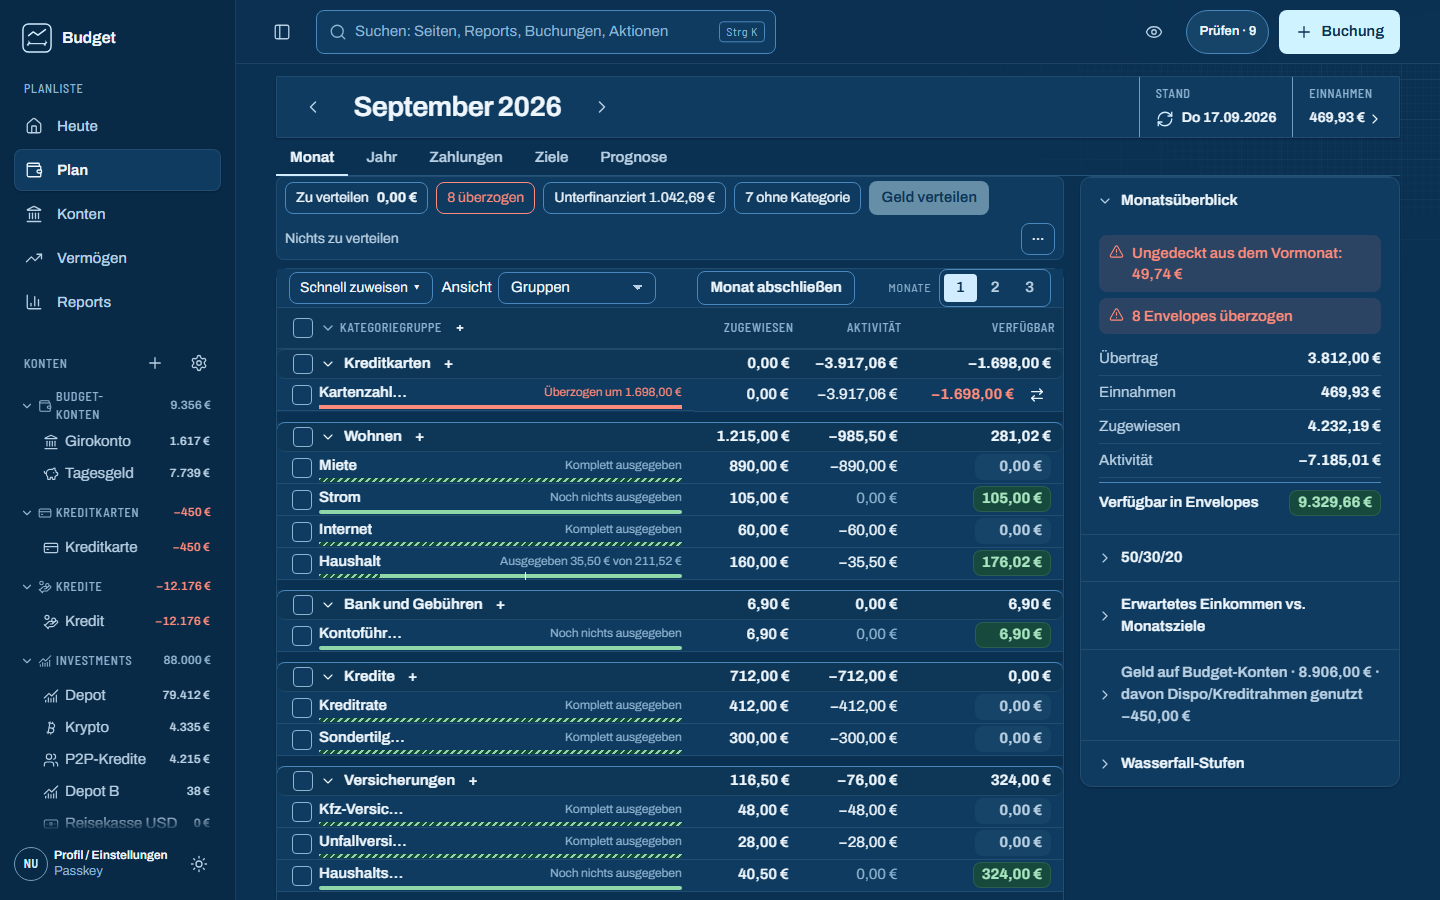
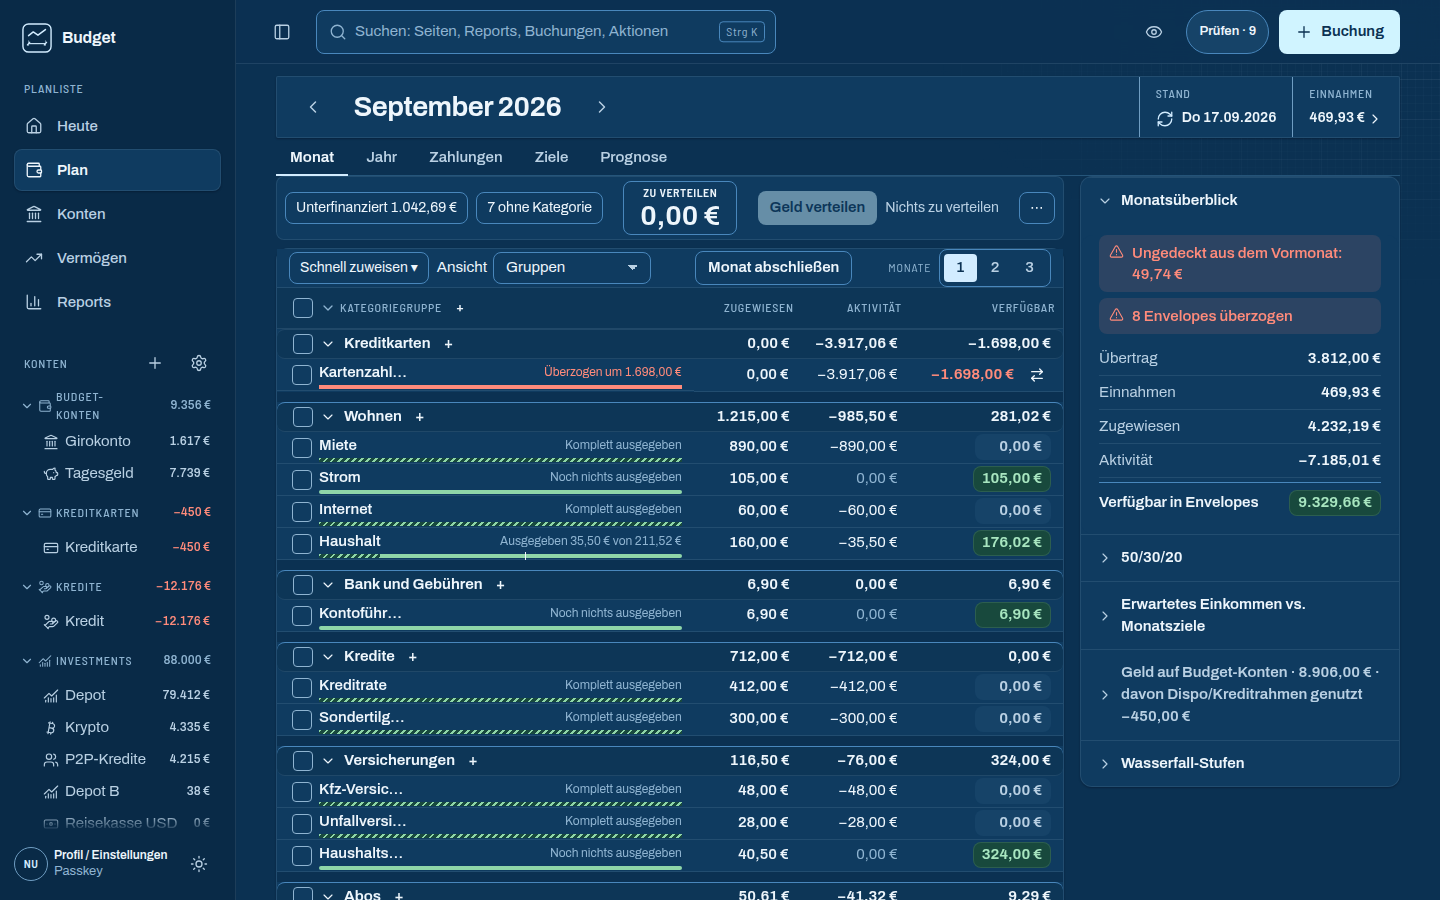
feat(plan): Zu verteilen as lead figure of the Plan head, no Überzogen chip (#587)
Owner decision 18.10.2026: Zu verteilen is the central, large figure of the Plan head
(display token), the red "N überzogen" chip leaves the head and the cover actions move
into the Zu verteilen disclosure (shown while anything is overspent or the figure is
negative). Desktop keeps one row, the phone head stays at most 56 px.

Existing e2e expectations that pinned the chip or the 14 px size are replaced by checks
of the new behaviour under tests-change-approved (per-file table in the PR).

Refs #587

Claude-Session: https://claude.ai/code/session_011YML2aoZgH3puKzNhDVY4Q

diff --git a/e2e/issue-587-plan-monat-kopf.spec.ts b/e2e/issue-587-plan-monat-kopf.spec.ts
@@ -102,11 +102,54 @@ test('rows carry no position numbers and the first category row is in the first 
   expect(await bottom()).toBeLessThan(viewportHeight);
 });
 
+test('no Überzogen chip in the head: rows keep their marking, cover actions sit in the Zu verteilen disclosure', async ({
+  page,
+}) => {
+  await page.goto('/plan/monat?monat=2026-09');
+  const head = page.locator('.plan-topbar');
+  await expect(page.getByTestId('to-be-assigned')).toBeVisible();
+  // Single alarm place: no red count anywhere in the head, whatever the markup.
+  // (The count only appears inside the opened disclosure, not in the hero or the chip row.)
+  await expect(head.locator('.plan-hero, .plan-chip-scroll').getByText(/überzogen/)).toHaveCount(0);
+  await expect(head.locator('.plan-chip.is-over')).toHaveCount(0);
+  // Overspent categories stay visible and marked in the list.
+  const overspent = await page.locator('tr.prow.is-over').count();
+  expect(overspent).toBeGreaterThan(0);
+  // The cover actions are one click away in the disclosure (read-only: nothing is booked here).
+  await page.getByTestId('to-be-assigned').click();
+  const triage = page.locator('.triage');
+  await expect(triage).toContainText(`${overspent} Envelopes überzogen`);
+  await expect(page.getByLabel('Quelle für alle Überziehungen')).toBeVisible();
+  await expect(page.getByRole('group', { name: 'Maßkette Zu verteilen' })).toBeVisible();
+  await page.keyboard.press('Escape');
+  await expect(triage).toBeHidden();
+});
+
+test('"Zu verteilen" is the largest figure of the head and uses the display token', async ({
+  page,
+  isMobile,
+}) => {
+  await page.goto('/plan/monat?monat=2026-09');
+  const hero = page.getByTestId('to-be-assigned');
+  await expect(hero).toBeVisible();
+  // T2 display: 28 px on the desktop, 24 px on the phone.
+  await expect(hero).toHaveCSS('font-size', isMobile ? '24px' : '28px');
+  const largestOther = await page.evaluate(() => {
+    const sizes: number[] = [];
+    for (const el of document.querySelectorAll('.plan-topbar *, .titleblock *')) {
+      if (el.matches('[data-testid="to-be-assigned"]') || el.children.length > 0) continue;
+      if (!/\d.*€/.test(el.textContent ?? '')) continue;
+      sizes.push(parseFloat(getComputedStyle(el).fontSize));
+    }
+    return Math.max(0, ...sizes);
+  });
+  const heroSize = await hero.evaluate((el) => parseFloat(getComputedStyle(el).fontSize));
+  expect(largestOther).toBeGreaterThan(0);
+  expect(heroSize).toBeGreaterThan(largestOther);
+});
+
 for (const scheme of ['light', 'dark'] as const) {
-  test(`head is accessible and fits the viewport in ${scheme}`, async ({
-    page,
-    isMobile,
-  }, info) => {
+  test(`head is accessible and fits the viewport in ${scheme}`, async ({ page, isMobile }) => {
     await page.emulateMedia({ colorScheme: scheme, reducedMotion: 'reduce' });
     await withToBeAssigned(page, 0);
     await page.goto('/plan/monat?monat=2026-09');
@@ -125,8 +168,8 @@ for (const scheme of ['light', 'dark'] as const) {
         for (const h of heights) expect(h, selector).toBeGreaterThanOrEqual(44);
       }
     }
-    if (info.project.name === 'desktop') {
-      await page.screenshot({ path: `${EVIDENCE}/plan-head-${scheme}.png` });
-    }
+    await page.screenshot({
+      path: `${EVIDENCE}/plan-head-${scheme}${isMobile ? '-phone' : ''}.png`,
+    });
   });
 }

diff --git a/apps/web/src/budget/plan.css b/apps/web/src/budget/plan.css
@@ -1519,6 +1519,64 @@
   outline: 2px solid var(--line);
   outline-offset: 2px;
 }
+.plan .plan-hero {
+  flex: 0 0 100%;
+  display: flex;
+  justify-content: center;
+  min-width: 0;
+}
+/* Desktop: one row. Unterfinanziert and ohne Kategorie left, the lead figure centred between the
+   groups (auto margins), the actions right. DOM order stays hero first for the tab sequence. */
+@media (min-width: 768px) {
+  .plan .plan-topbar {
+    flex-wrap: wrap;
+  }
+  .plan .plan-topbar > .plan-chip-scroll {
+    display: contents;
+  }
+  .plan .plan-topbar > .plan-hero {
+    flex: 0 1 auto;
+    order: 3;
+    margin-inline: auto;
+  }
+  .plan .plan-chip-scroll > :nth-child(1) {
+    order: 1;
+  }
+  .plan .plan-chip-scroll > :nth-child(2) {
+    order: 2;
+  }
+  .plan .plan-chip-scroll > :nth-child(n + 3) {
+    order: 4;
+  }
+  .plan .plan-chip-scroll > .plan-more {
+    order: 5;
+  }
+}
+/* The lead figure of the Plan head: small label over the amount at the display token. */
+.plan .plan-hero .plan-tba {
+  display: flex;
+  flex-direction: column;
+  gap: 0;
+  align-items: center;
+  justify-content: center;
+  padding: 2px 16px;
+  min-height: 52px;
+  font-size: var(--fs-label);
+}
+.plan .plan-tba-label {
+  font-family: var(--font-tech);
+  font-size: var(--fs-label);
+  font-weight: 600;
+  line-height: var(--lh-label);
+  letter-spacing: 0.04em;
+  text-transform: uppercase;
+}
+.plan .plan-hero .plan-tba strong {
+  font-size: var(--fs-display);
+  line-height: var(--lh-display);
+  font-weight: 650;
+  font-variant-numeric: tabular-nums;
+}
 .plan .plan-tba.is-positive {
   background: var(--good-soft);
   color: var(--on-good-soft);
@@ -2292,5 +2350,30 @@
   .plan .ptable-zero .spending-bar {
     grid-column: 1 / -1;
     grid-row: 3;
+  }
+}
+
+/* Phone: the sticky head stays one row (at most 56 px): the lead figure first, the chips scroll. */
+@media (max-width: 767px) {
+  .plan .plan-topbar {
+    display: flex;
+    align-items: center;
+    gap: 8px;
+    flex-wrap: nowrap;
+  }
+  .plan .plan-topbar > .plan-hero {
+    flex: 0 0 auto;
+  }
+  .plan .plan-hero .plan-tba {
+    min-height: 44px;
+    padding: 0 12px;
+  }
+  .plan .plan-hero .plan-tba strong {
+    line-height: 1.15;
+  }
+  .plan .plan-topbar > .plan-chip-scroll {
+    flex: 1 1 0;
+    min-width: 0;
+    width: auto;
   }
 }

diff --git a/apps/web/src/budget/plan-page.tsx b/apps/web/src/budget/plan-page.tsx
@@ -857,7 +857,10 @@ function PlanBody({
   );
 }
 
-/** Sticky month controls; native disclosures keep the derivation and cover actions nearby. */
+/**
+ * Sticky month head: "Zu verteilen" is the lead figure; its disclosure holds the derivation and,
+ * while anything is overspent or the figure is negative, the cover actions.
+ */
 function PlanTopBar({
   data,
   month,
@@ -944,7 +947,7 @@ function PlanTopBar({
   ];
   return (
     <section className="plan-topbar" aria-label="Monat planen">
-      <div className="plan-chip-scroll">
+      <div className="plan-hero">
         <details
           className="plan-popover"
           onToggle={(event) => disclosureToggle(event.currentTarget, 'plan-chip-panel-0')}
@@ -953,23 +956,14 @@ function PlanTopBar({
             aria-controls="plan-chip-panel-0"
             className={cx('plan-tba', tba > 0 && 'is-positive', tba < 0 && 'is-negative')}
           >
-            Zu verteilen{' '}
+            <span className="plan-tba-label">Zu verteilen</span>
             <strong data-testid="to-be-assigned" aria-live="polite">
               {eur(tba)}
             </strong>
           </summary>
         </details>
-        <details
-          className="plan-popover"
-          onToggle={(event) => disclosureToggle(event.currentTarget, 'plan-chip-panel-1')}
-        >
-          <summary
-            aria-controls="plan-chip-panel-1"
-            className={cx('plan-chip', urgent > 0 && 'is-over')}
-          >
-            {urgent} überzogen
-          </summary>
-        </details>
+      </div>
+      <div className="plan-chip-scroll">
         <button
           type="button"
           className="plan-chip"
@@ -1033,14 +1027,7 @@ function PlanTopBar({
         aria-label="Herleitung Zu verteilen"
       >
         <DimensionChain terms={terms} precision="cent" label="Maßkette Zu verteilen" />
-        {tba < 0 && urgent === 0 && coverControls}
-      </div>
-      <div
-        className="plan-popover-content"
-        id="plan-chip-panel-1"
-        hidden={active !== 'plan-chip-panel-1'}
-      >
-        {urgent ? coverControls : 'Nichts ist überzogen.'}
+        {(tba < 0 || urgent > 0) && coverControls}
       </div>
       <div
         className="plan-popover-content"

diff --git a/e2e/topbar-plan-triage-237.spec.ts b/e2e/topbar-plan-triage-237.spec.ts
@@ -94,7 +94,10 @@ test('phone status or Heute action opens real triage cover and undo on an isolat
   expect(url.pathname).toBe('/plan/monat');
   expect(url.searchParams.get('monat')).toBe(month);
   expect(url.searchParams.get('ansicht')).toBe('triage');
-  await page.locator('.plan-topbar summary').filter({ hasText: '1 überzogen' }).click();
+  await expect(page.locator('.plan-topbar summary').filter({ hasText: 'überzogen' })).toHaveCount(
+    0,
+  );
+  await page.locator('.plan-topbar .plan-tba').click();
   await expect(page.locator('.triage')).toContainText('1 Envelopes überzogen');
   await expect(page.getByRole('dialog')).toHaveCount(0);
   const sourceSelect = page.getByLabel('Quelle für alle Überziehungen');
@@ -102,9 +105,8 @@ test('phone status or Heute action opens real triage cover and undo on an isolat
   await page.getByRole('button', { name: 'Alle aus Testquelle decken' }).click();
   await expect(page.locator('.toast.is-open')).toContainText('1 gedeckt, 0 offen');
   await expect(status).toHaveCount(0);
-  await expect(page.locator('.plan-topbar summary').filter({ hasText: '1 überzogen' })).toHaveCount(
-    0,
-  );
+  await expect(page.locator('.triage')).toHaveCount(0);
+  await expect(page.locator('tr.prow.is-over')).toHaveCount(0);
   expect(await balances()).toEqual({ source: 3000, target: 0 });
 
   for (const theme of ['light', 'dark'] as const) {
@@ -122,7 +124,8 @@ test('phone status or Heute action opens real triage cover and undo on an isolat
   await expect(page.locator('.toast.is-open')).toContainText('Rückgängig gemacht');
   expect(await balances()).toEqual({ source: 8000, target: -5000 });
   if (phone) await expect(status).toBeVisible();
-  await expect(
-    page.locator('.plan-topbar summary').filter({ hasText: '1 überzogen' }),
-  ).toBeVisible();
+  await expect(page.locator('tr.prow.is-over')).toHaveCount(1);
+  const hero = page.locator('.plan-topbar .plan-tba');
+  if (!(await hero.evaluate((e) => e.parentElement!.hasAttribute('open')))) await hero.click();
+  await expect(page.locator('.triage')).toContainText('1 Envelopes überzogen');
 });

diff --git a/e2e/overspent-counts.spec.ts b/e2e/overspent-counts.spec.ts
@@ -58,14 +58,18 @@ test('one synthetic month has the same overspent count in Heute, Plan, inbox and
   expect(triageUrl.searchParams.get('monat')).toBe('2026-09');
   expect(triageUrl.searchParams.get('ansicht')).toBe('triage');
   await expect(page.getByRole('dialog')).toHaveCount(0);
-  await expect(
-    page.locator('.plan-topbar summary').filter({ hasText: `${count} überzogen` }),
-  ).toBeVisible();
+  await expect(page.locator('.plan-topbar summary').filter({ hasText: 'überzogen' })).toHaveCount(
+    0,
+  );
+  await page.locator('.plan-topbar .plan-tba').click();
+  await expect(page.locator('.triage')).toContainText(`${count} Envelopes überzogen`);
 
   await page.goto('/plan/monat?monat=2026-09&ansicht=triage');
-  await expect(
-    page.locator('.plan-topbar summary').filter({ hasText: `${count} überzogen` }),
-  ).toBeVisible();
+  await expect(page.locator('.plan-topbar summary').filter({ hasText: 'überzogen' })).toHaveCount(
+    0,
+  );
+  await page.locator('.plan-topbar .plan-tba').click();
+  await expect(page.locator('.triage')).toContainText(`${count} Envelopes überzogen`);
   await expect(page.locator('tr.prow.is-over')).toHaveCount(count);
   await page.screenshot({ path: info.outputPath('plan.png'), fullPage: true });
 

diff --git a/e2e/plan-compact-grid.spec.ts b/e2e/plan-compact-grid.spec.ts
@@ -89,10 +89,12 @@ test('compact groups retain cent totals, add controls, keyboard and multiple mon
   await expect(page.locator('.pgroup').first().locator('.col-assign')).toHaveText('45,09 €');
   await expect(page.locator('.pgroup').first().locator('.col-act')).toHaveText('−14,05 €');
   await expect(page.locator('.pgroup').first().locator('.col-avail')).toHaveText('31,04 €');
-  await expect(
-    page.locator('.plan-topbar summary').filter({ hasText: '2 überzogen' }),
-  ).toBeVisible();
+  // The red chip is gone; the overspent count lives in the Zu verteilen disclosure.
+  await expect(page.locator('.plan-topbar summary').filter({ hasText: 'überzogen' })).toHaveCount(
+    0,
+  );
   await page.locator('.plan-tba').click();
+  await expect(page.locator('.triage')).toContainText('2 Envelopes überzogen');
   await expect(page.getByRole('group', { name: 'Maßkette Zu verteilen' })).toBeVisible();
   await page.keyboard.press('Escape');
   expect(

diff --git a/e2e/plan.spec.ts b/e2e/plan.spec.ts
@@ -231,10 +231,13 @@ isolatedTest(
       'title',
       /neue Kartenschuld 30,00 €/,
     );
-    await page.locator('.plan-topbar summary').filter({ hasText: '2 überzogen' }).click();
-    await expect(page.locator('.triage')).toContainText('Envelopes überzogen');
+    await expect(page.locator('.plan-topbar summary').filter({ hasText: 'überzogen' })).toHaveCount(
+      0,
+    );
+    await page.locator('.plan-topbar .plan-tba').click();
+    await expect(page.locator('.triage')).toContainText('2 Envelopes überzogen');
     await expect(page.locator('.triage')).not.toContainText(food);
-    await page.locator('.plan-topbar summary').filter({ hasText: '2 überzogen' }).click();
+    await page.locator('.plan-topbar .plan-tba').click();
 
     // Assign inline with the arithmetic field.
     if (testInfo.project.name === 'mobile') {

diff --git a/e2e/ux-distill.spec.ts b/e2e/ux-distill.spec.ts
@@ -151,11 +151,11 @@ isolatedTest(
         amountCents,
       });
     await page.goto(`/plan/monat?monat=${month}`);
-    // The cover controls live in the "überzogen" chip's popover of the top bar; a click outside
+    // The cover controls live in the "Zu verteilen" disclosure of the top bar; a click outside
     // (the toast's undo) closes it again.
     const openCover = async () => {
-      const chip = page.locator('.plan-topbar summary').filter({ hasText: /^\d+ überzogen$/ });
-      if (!(await page.locator('#cover-all-source').isVisible())) await chip.click();
+      const hero = page.locator('.plan-topbar .plan-tba');
+      if (!(await page.locator('#cover-all-source').isVisible())) await hero.click();
     };
     await openCover();
     await page.getByLabel('Quelle für alle Überziehungen').selectOption(source.id);

diff --git a/e2e/css-scale.spec.ts b/e2e/css-scale.spec.ts
@@ -24,8 +24,13 @@ for (const scheme of ['light', 'dark'] as const) {
       await page.goto('/plan/monat?monat=2026-09');
       await expect(page.locator('.plan .plan-topbar')).toBeVisible();
       await page.evaluate(() => document.fonts.ready);
-      // Plan chips are compact controls (T7), one step below body text.
+      // "Zu verteilen" is the lead figure of the Plan head: the DS2 display token (T2).
       await expect(page.getByTestId('to-be-assigned')).toHaveCSS(
+        'font-size',
+        isMobile ? '24px' : '28px',
+      );
+      // Plan chips stay compact controls (T7), one step below body text.
+      await expect(page.locator('.plan-chip-scroll .plan-chip').first()).toHaveCSS(
         'font-size',
         isMobile ? '15px' : '14px',
       );

diff --git a/e2e/ux-cover-limits.spec.ts b/e2e/ux-cover-limits.spec.ts
@@ -79,10 +79,7 @@ test('cover limits protect commitments, explain missing money and show credit se
   await expect(money.locator('summary')).toContainText('davon Dispo/Kreditrahmen genutzt −30,00 €');
   await money.locator('summary').click();
   await expect(money).toContainText('Rahmen 60,00 €');
-  await page
-    .locator('.plan-topbar summary')
-    .filter({ hasText: /^\d+ überzogen$/ })
-    .click();
+  await page.locator('.plan-topbar .plan-tba').click();
   const select = page.getByLabel('Quelle für alle Überziehungen');
   await expect(select.locator('option', { hasText: 'Testgesundheit' })).toContainText(
     'fest verplant 20,00 € · frei 40,00 €',

diff --git a/e2e/month-nav.spec.ts b/e2e/month-nav.spec.ts
@@ -94,10 +94,7 @@ test.describe('Heute month switch', () => {
     // The header search field opens in a dialog. The month
     // keys' guard for fields is shared with Plan › Monat, whose cover select is a real field.
     await page.goto('/plan/monat?monat=2026-09');
-    await page
-      .locator('.plan-topbar summary')
-      .filter({ hasText: /^\d+ überzogen$/ })
-      .click();
+    await page.locator('.plan-topbar .plan-tba').click();
     await page.locator('#cover-all-source').focus();
     await page.keyboard.press('ArrowLeft');
     await expect(page).toHaveURL(/monat=2026-09/);
